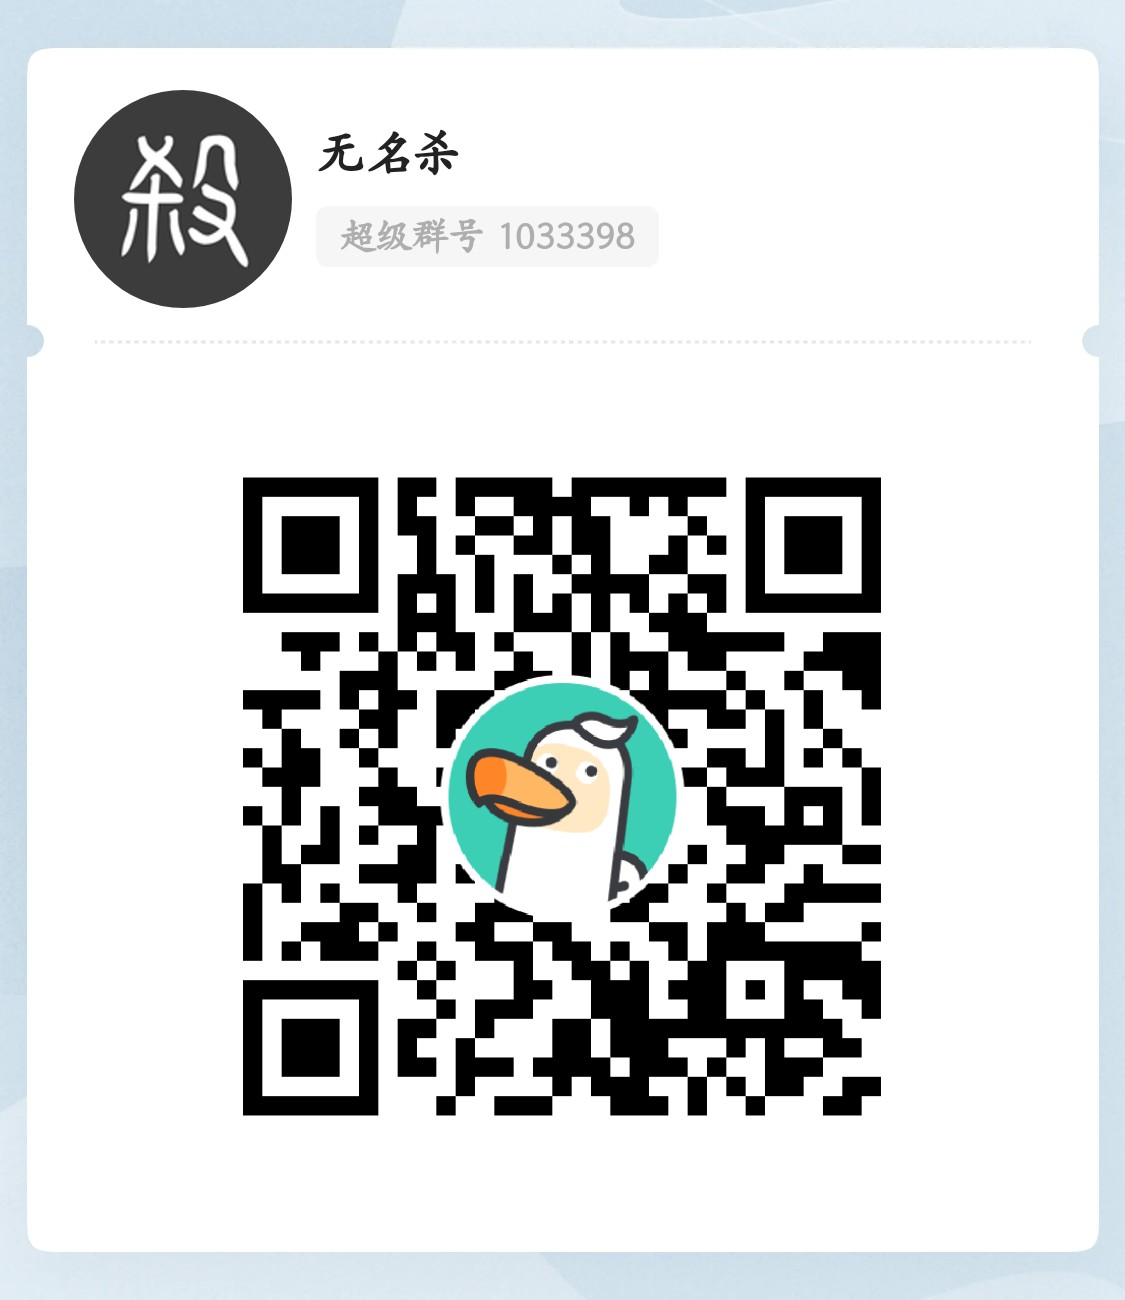
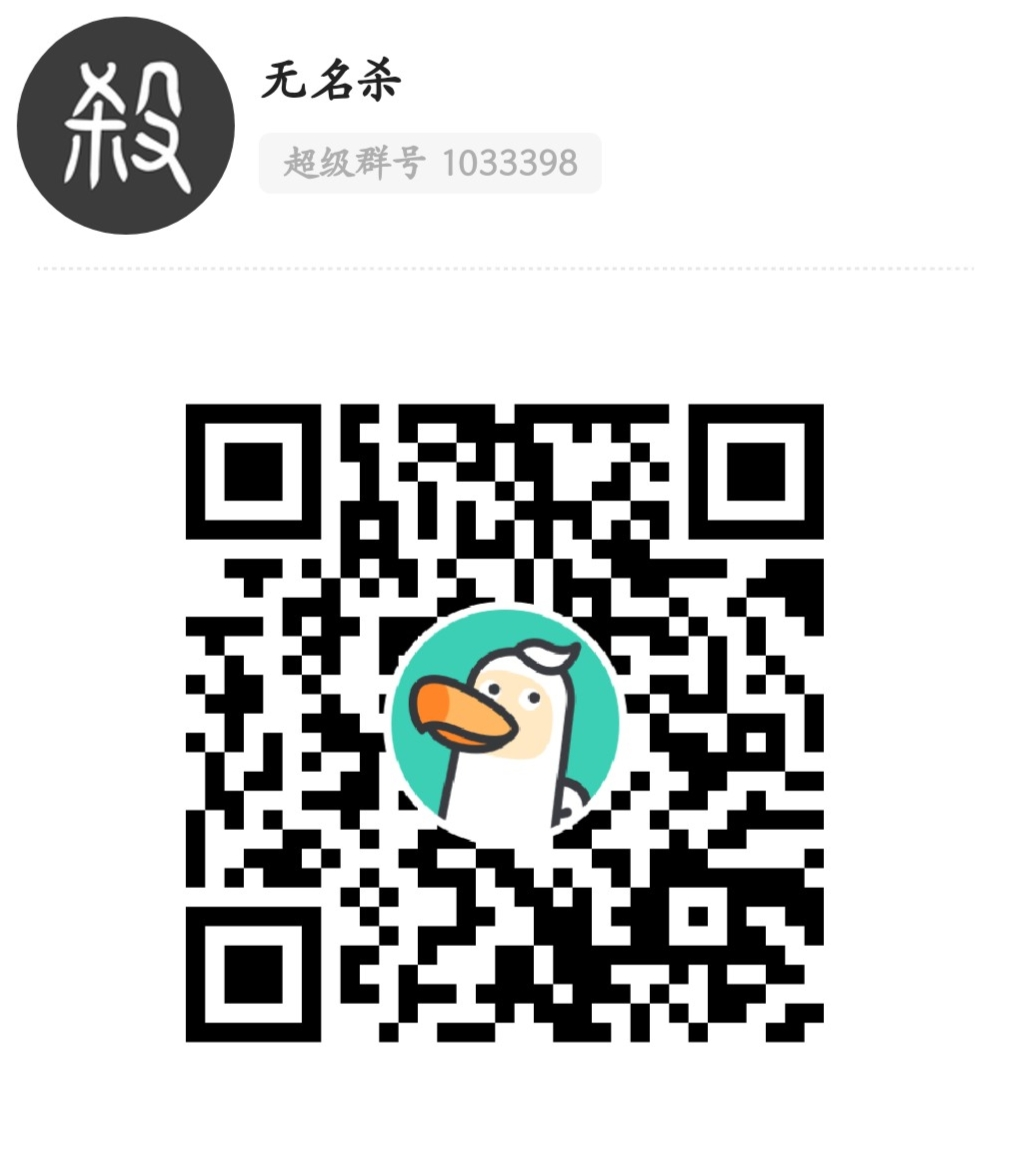
Update v1.5.2.2

diff --git a/js/precontent.js b/js/precontent.js
@@ -218,9 +218,9 @@ export function precontent(config, pack) {
 	}
 	if (lib.config.extension_AI优化_changelog !== lib.extensionPack.AI优化.version) lib.game.showChangeLog = function () {//更新内容
 		let str = [
-			'<center><font color=#00FFFF>更新日期</font>：<font color=#FFFF00>24</font>年<font color=#00FFB0>3</font>月<font color=fire>2</font>日</center>',
-			'◆优化TW张昭〖纯刚〗ai',
-			'◆修复上个版本内奸ai的一个严重bug'
+			'<center><font color=#00FFFF>更新日期</font>：<font color=#FFFF00>24</font>年<font color=#00FFB0>3</font>月<font color=fire>8</font>日</center>',
+			'◆［修改武将评级显示］增加临时选项〔混合评级〕',
+			'◆部分素材更换为更清晰的版本'
 		];
 		let ul = document.createElement('ul');
 		ul.style.textAlign = 'left';
@@ -1123,18 +1123,18 @@ export function precontent(config, pack) {
 				trigger: {
 					player: 'dieAfter'
 				},
-				filter(event, player) {
+				filter (event, player) {
 					return !game.hasPlayer(i => i.hasSkill('twchungang'), true)
 				},
 				silent: true,
 				forceDie: true,
 				charlotte: true,
-				content() {
+				content () {
 					game.removeGlobalSkill('twchungang_global');
 				},
 				ai: {
 					effect: {
-						target(card, player, target) {
+						target (card, player, target) {
 							if ((get.tag(card, 'gain') || 0) < 2 && (get.tag(card, 'draw') || 0) < 2) return;
 							let evt = _status.event.getParent('phaseDraw'), dis = game.countPlayer(i => {
 								return target !== i && i.hasSkill('twchungang');

diff --git a/js/config.js b/js/config.js
@@ -179,8 +179,8 @@ export let config = {
 			wx: '小写汉字',
 			wp: '九品制',
 			tg: '官方评级',
-			//tq: '七佬设计',
 			tz: '字母评级',
+			tq: '混合评级',
 			off: '关闭'
 		}
 	},
